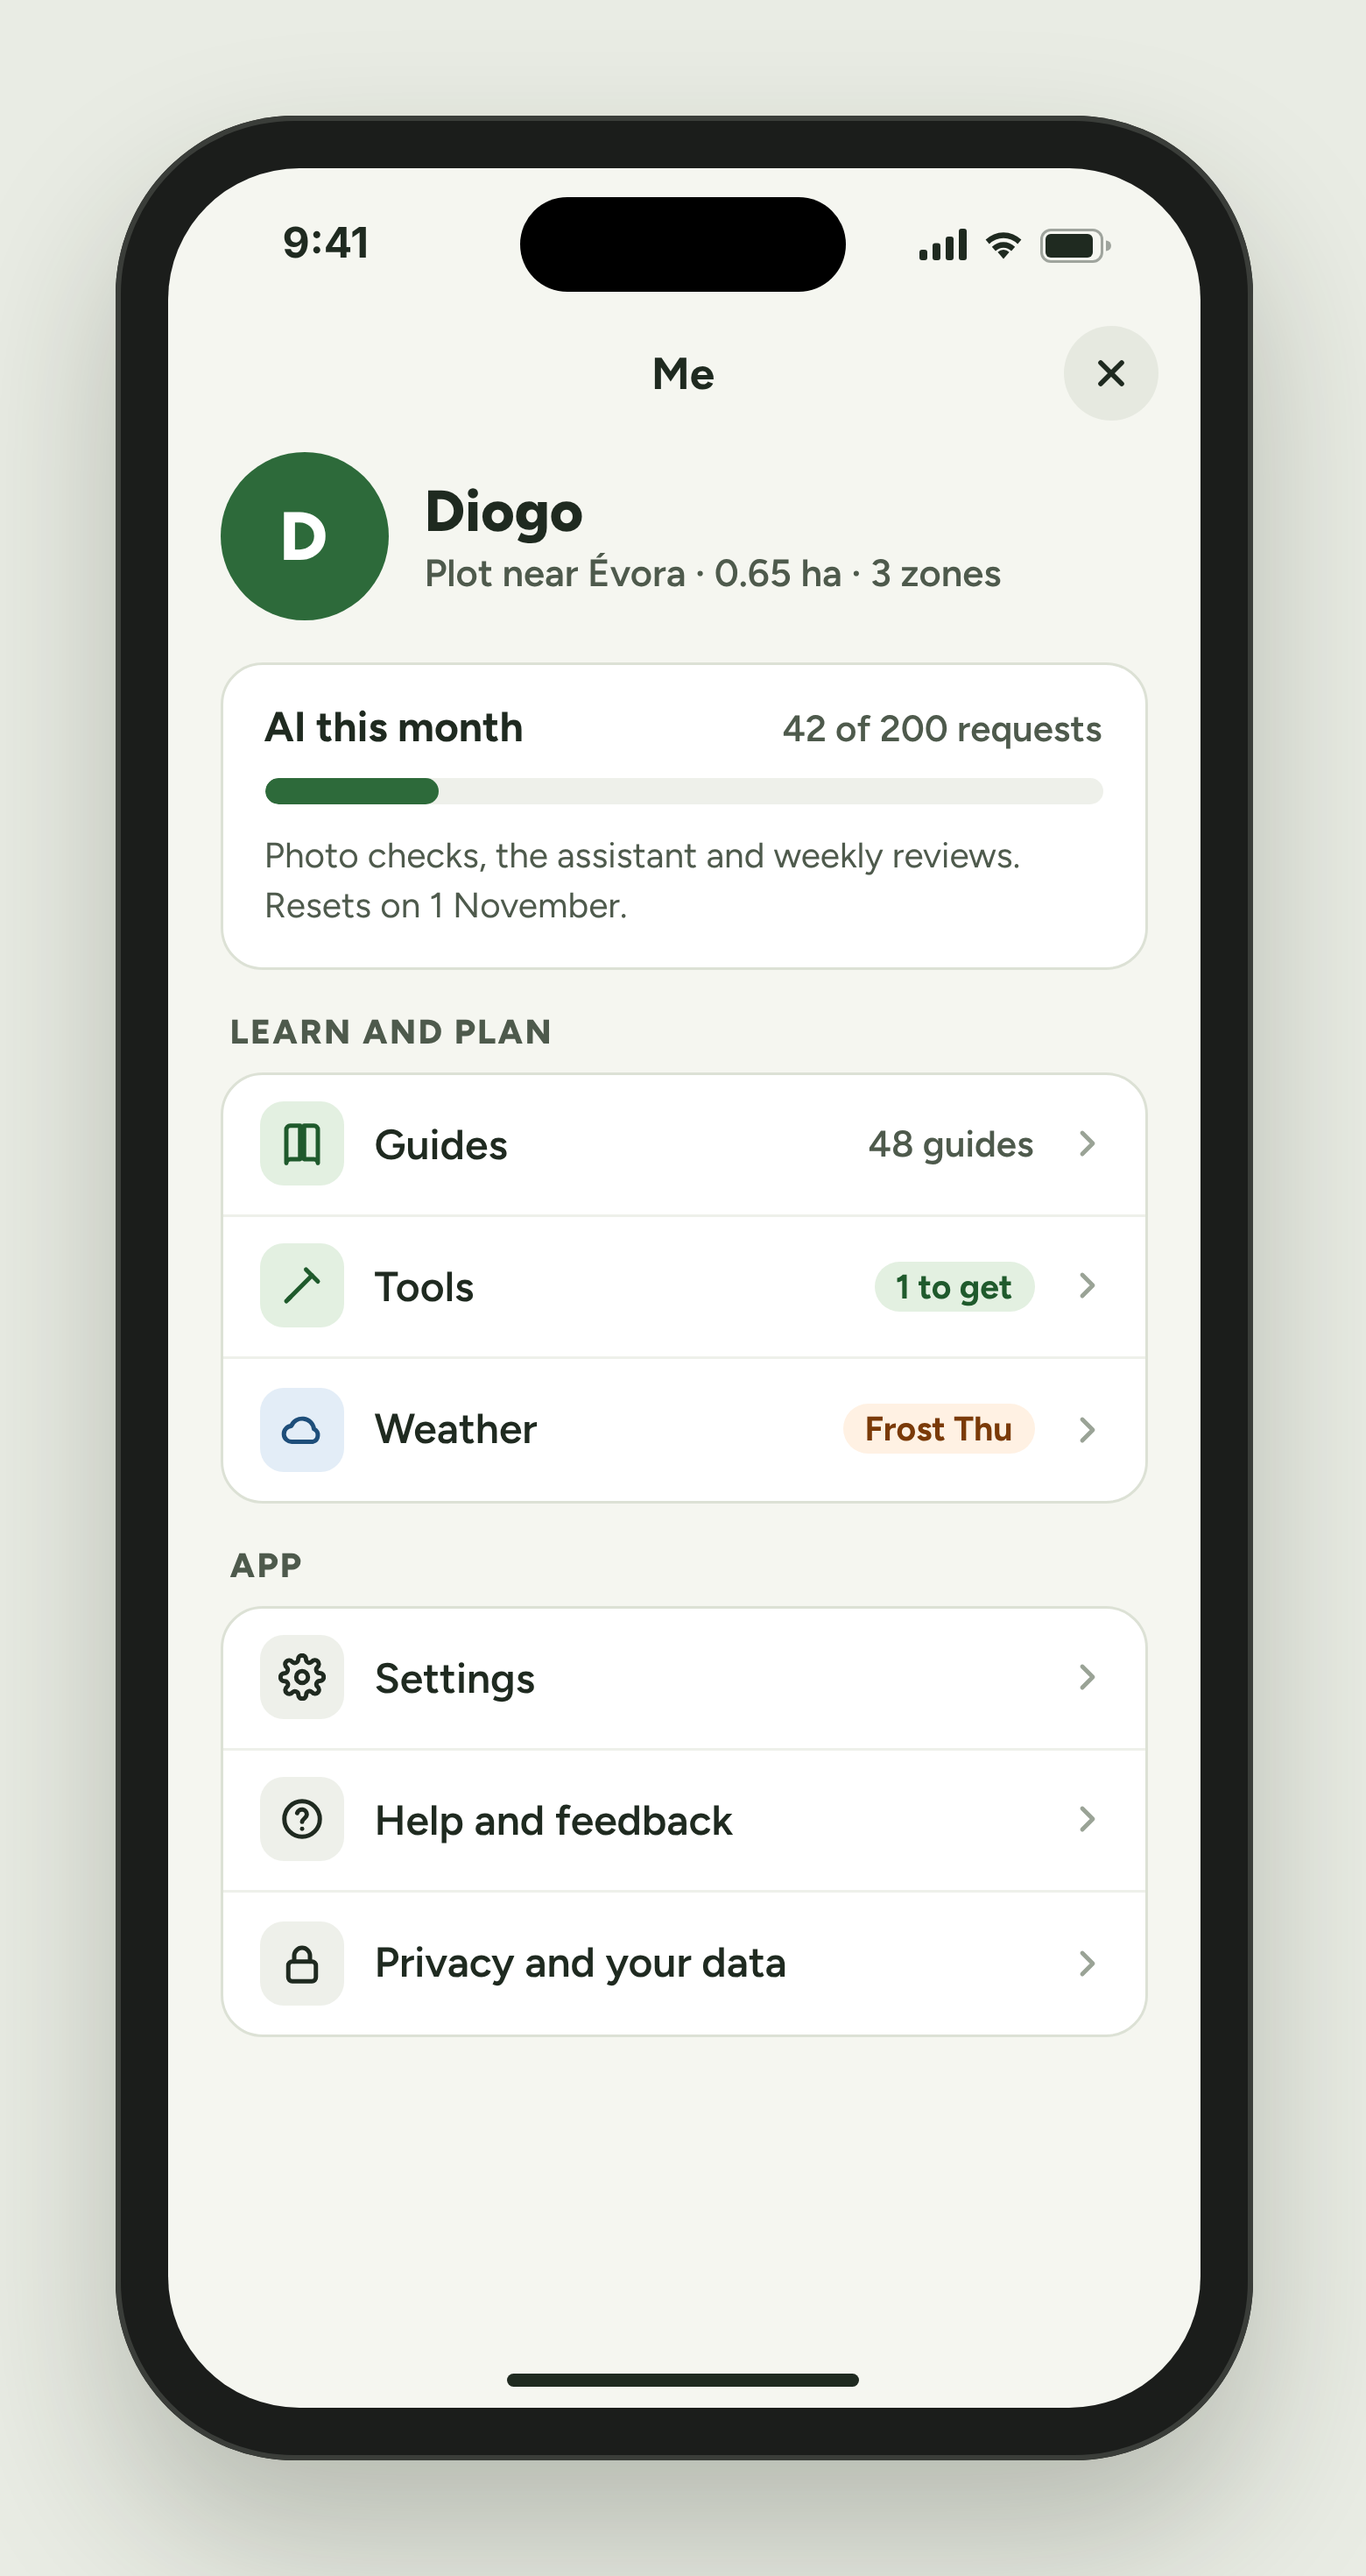
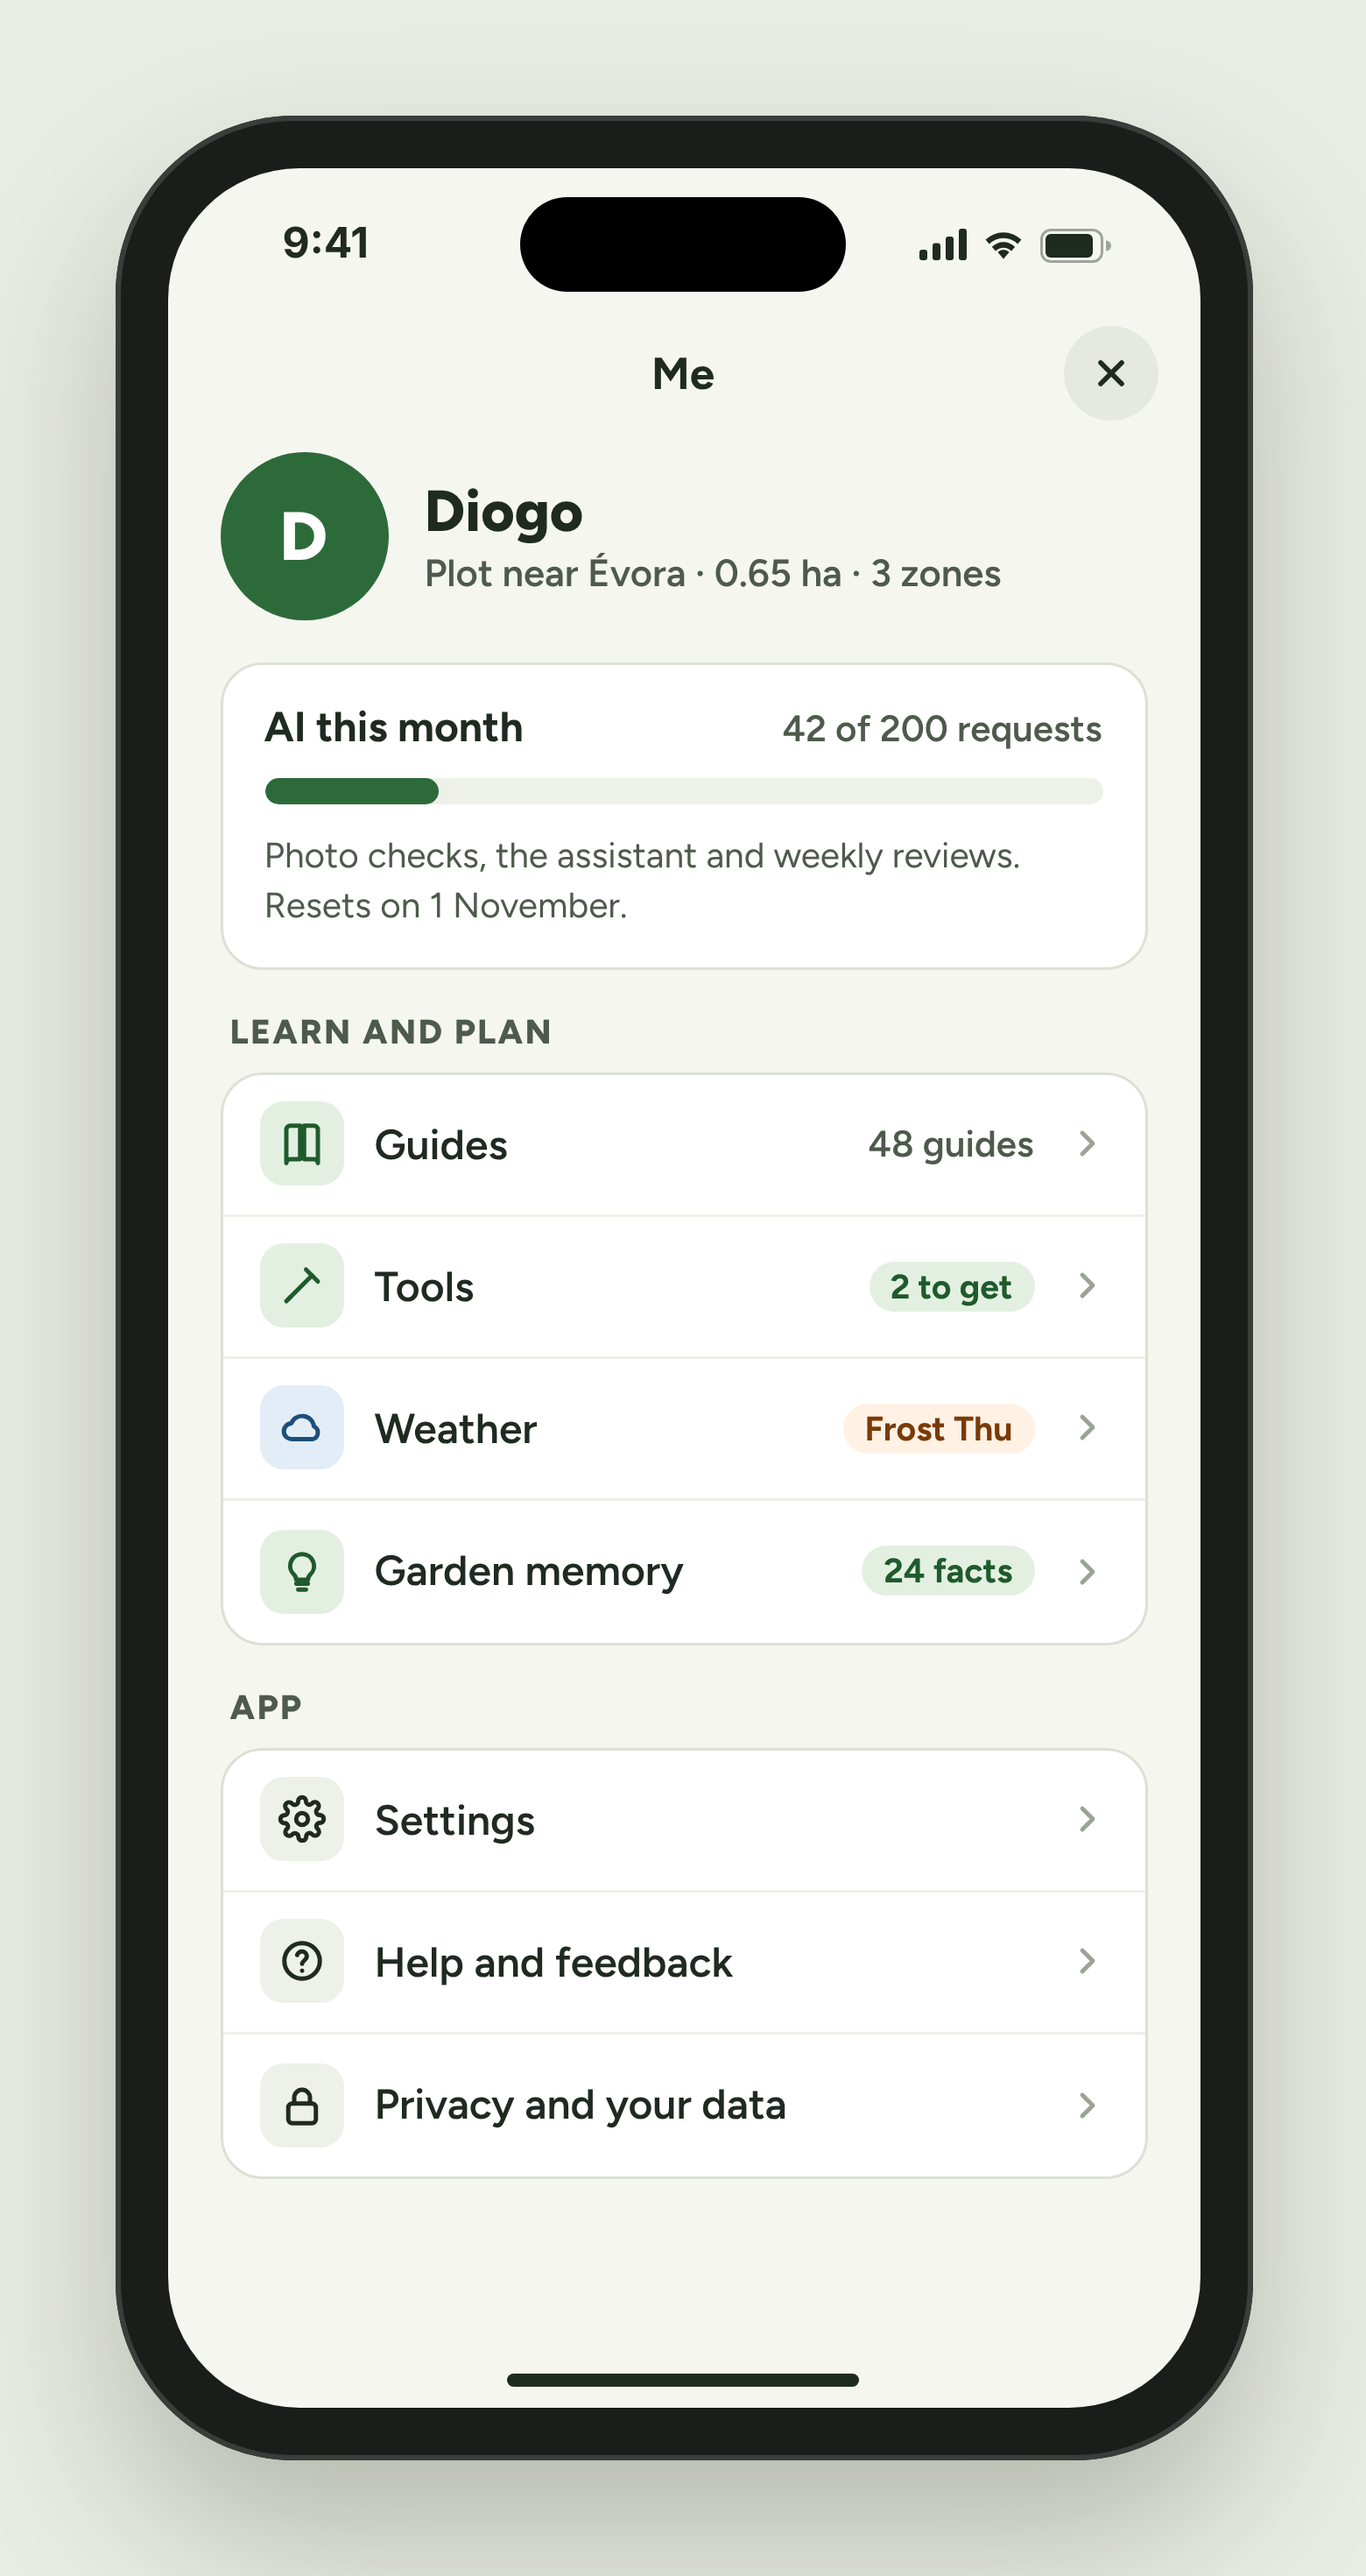
Design G1 Me: 2 tools to get, Garden memory row
Claude-Session: https://claude.ai/code/session_015NynAjU4naPZwzmeuGazot

diff --git a/design/source/G1-me.html b/design/source/G1-me.html
@@ -73,12 +73,17 @@
         </div>
         <div class="item">
           <span class="ic" style="background: var(--green-soft)"><svg width="18" height="18" viewBox="0 0 24 24" fill="none" stroke="#1F5A2C" stroke-width="2.2" stroke-linecap="round" stroke-linejoin="round"><path d="M14 4l6 6"/><path d="M17 7L5 19"/><path d="M4 20l2-2"/></svg></span>
-          <b>Tools</b><em class="cnt">1 to get</em>
+          <b>Tools</b><em class="cnt">2 to get</em>
           <svg width="16" height="16" viewBox="0 0 24 24" fill="none" stroke="#9AA396" stroke-width="2.4" stroke-linecap="round" stroke-linejoin="round"><path d="M9 6l6 6-6 6"/></svg>
         </div>
         <div class="item">
           <span class="ic" style="background: var(--blue-soft)"><svg width="18" height="18" viewBox="0 0 24 24" fill="none" stroke="#1E4E7A" stroke-width="2.2" stroke-linecap="round" stroke-linejoin="round"><path d="M7 18a4 4 0 0 1-.5-8 6 6 0 0 1 11.5 1.5A3.5 3.5 0 0 1 17.5 18z"/></svg></span>
           <b>Weather</b><em class="warn">Frost Thu</em>
+          <svg width="16" height="16" viewBox="0 0 24 24" fill="none" stroke="#9AA396" stroke-width="2.4" stroke-linecap="round" stroke-linejoin="round"><path d="M9 6l6 6-6 6"/></svg>
+        </div>
+        <div class="item">
+          <span class="ic" style="background: var(--green-soft)"><svg width="18" height="18" viewBox="0 0 24 24" fill="none" stroke="#1F5A2C" stroke-width="2.2" stroke-linecap="round" stroke-linejoin="round"><path d="M9 18h6M10 21h4"/><path d="M12 3a6 6 0 0 0-4 10.5c.7.7 1 1.5 1 2.5h6c0-1 .3-1.8 1-2.5A6 6 0 0 0 12 3z"/></svg></span>
+          <b>Garden memory</b><em class="cnt">24 facts</em>
           <svg width="16" height="16" viewBox="0 0 24 24" fill="none" stroke="#9AA396" stroke-width="2.4" stroke-linecap="round" stroke-linejoin="round"><path d="M9 6l6 6-6 6"/></svg>
         </div>
       </div>
